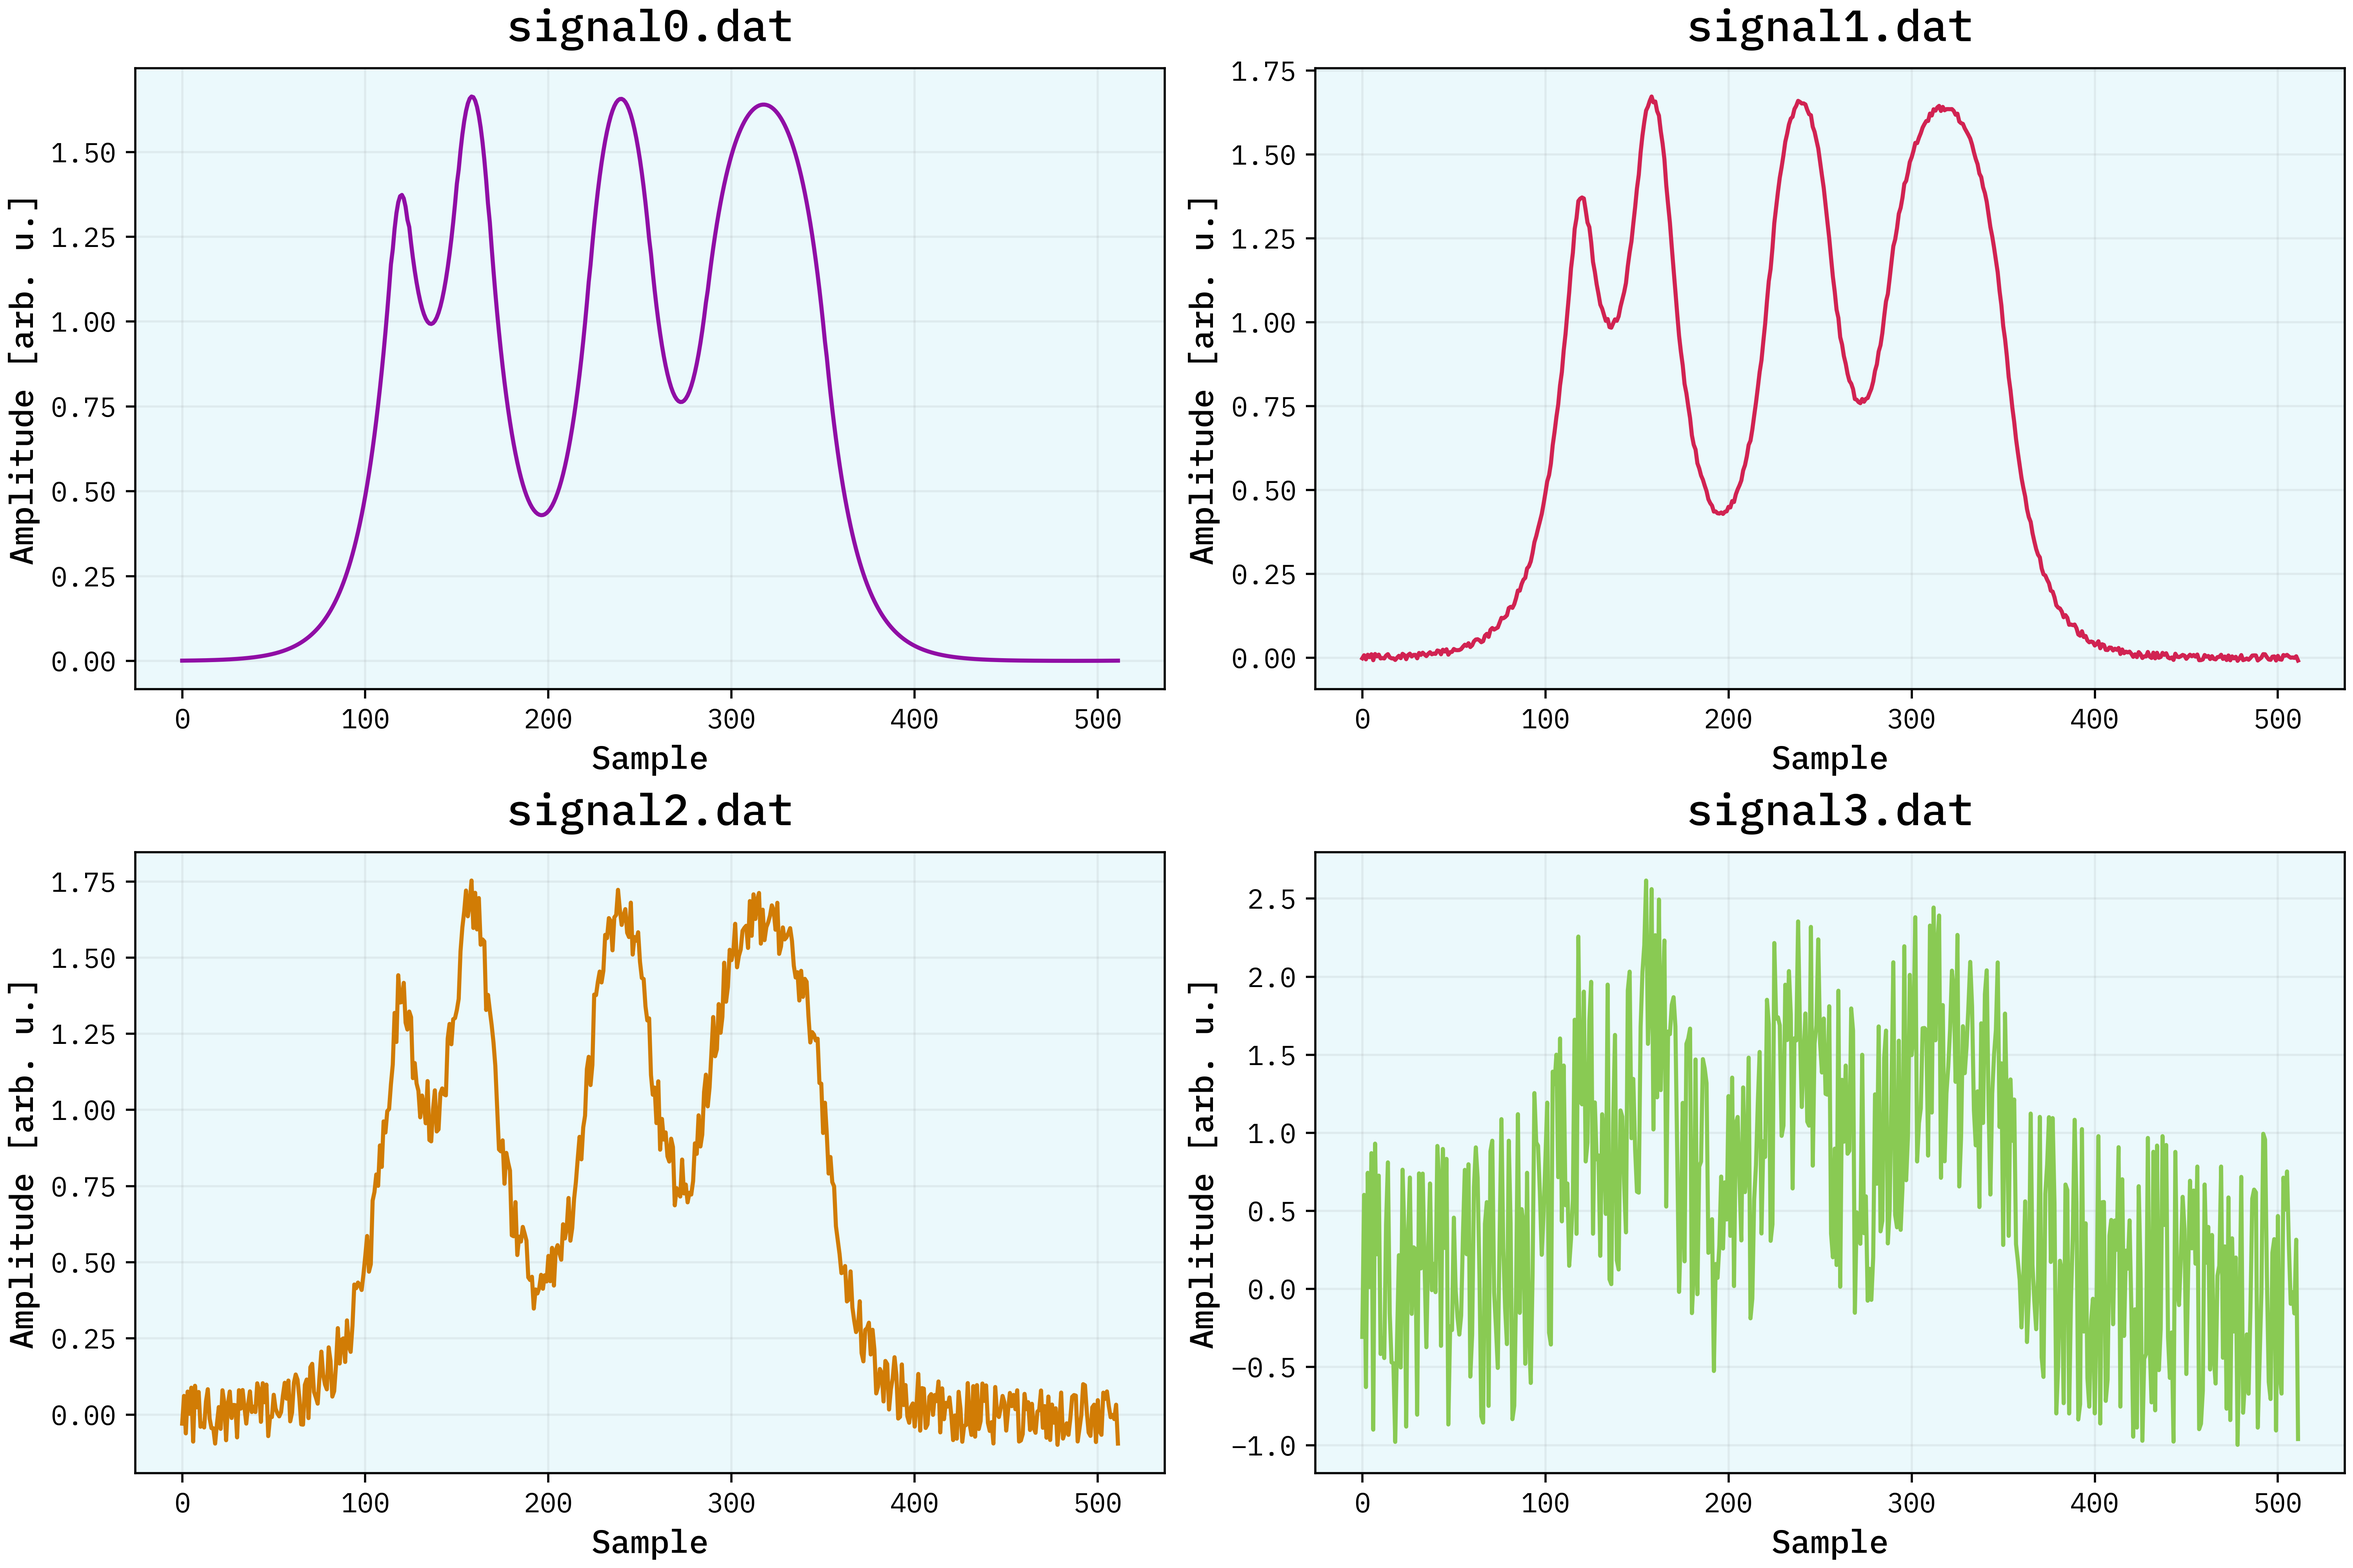
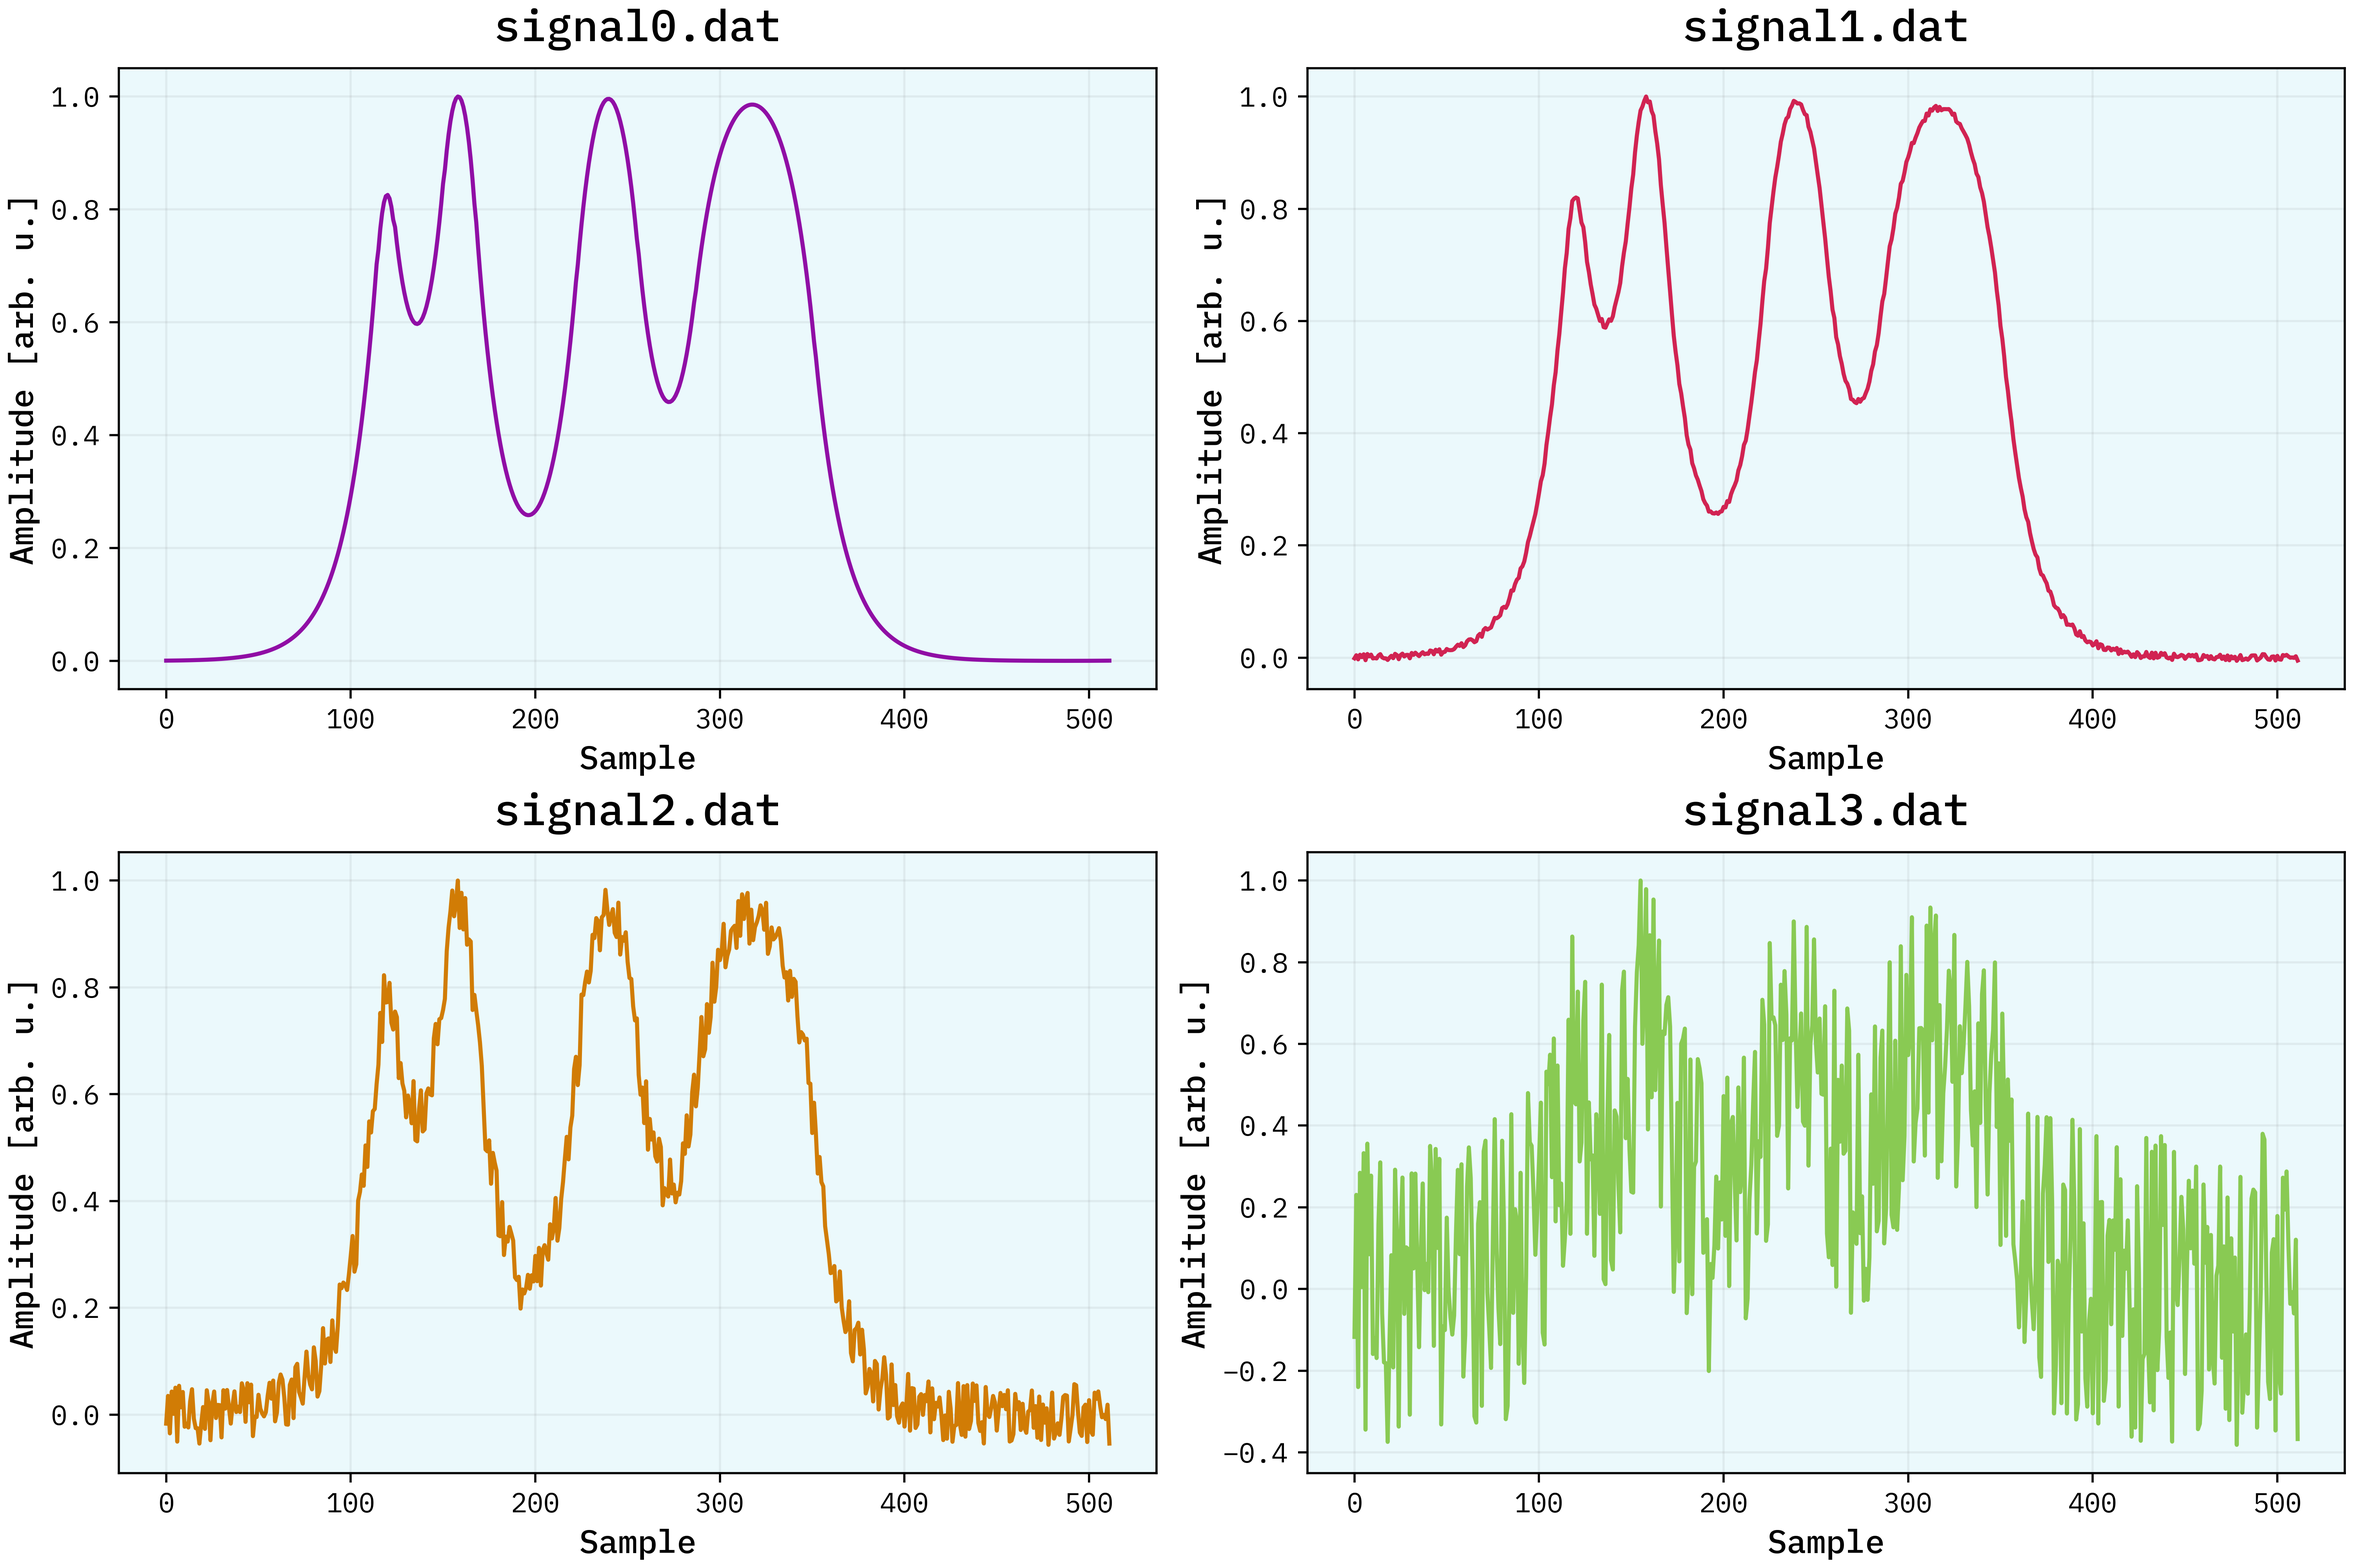
fix: :art: normalize signals on plots

diff --git a/WienerFilter/Code/view-signals.py b/WienerFilter/Code/view-signals.py
@@ -14,9 +14,13 @@ mpl.style.use('./ma-style.mplstyle')
 
 # Load signals
 signal0 = np.loadtxt('./SuppliedData/signal0.dat')
+signal0 = signal0 / np.max(signal0)
 signal1 = np.loadtxt('./SuppliedData/signal1.dat')
+signal1 = signal1 / np.max(signal1)
 signal2 = np.loadtxt('./SuppliedData/signal2.dat')
+signal2 = signal2 / np.max(signal2)
 signal3 = np.loadtxt('./SuppliedData/signal3.dat')
+signal3 = signal3 / np.max(signal3)
 
 
 data_len = len(signal0)
